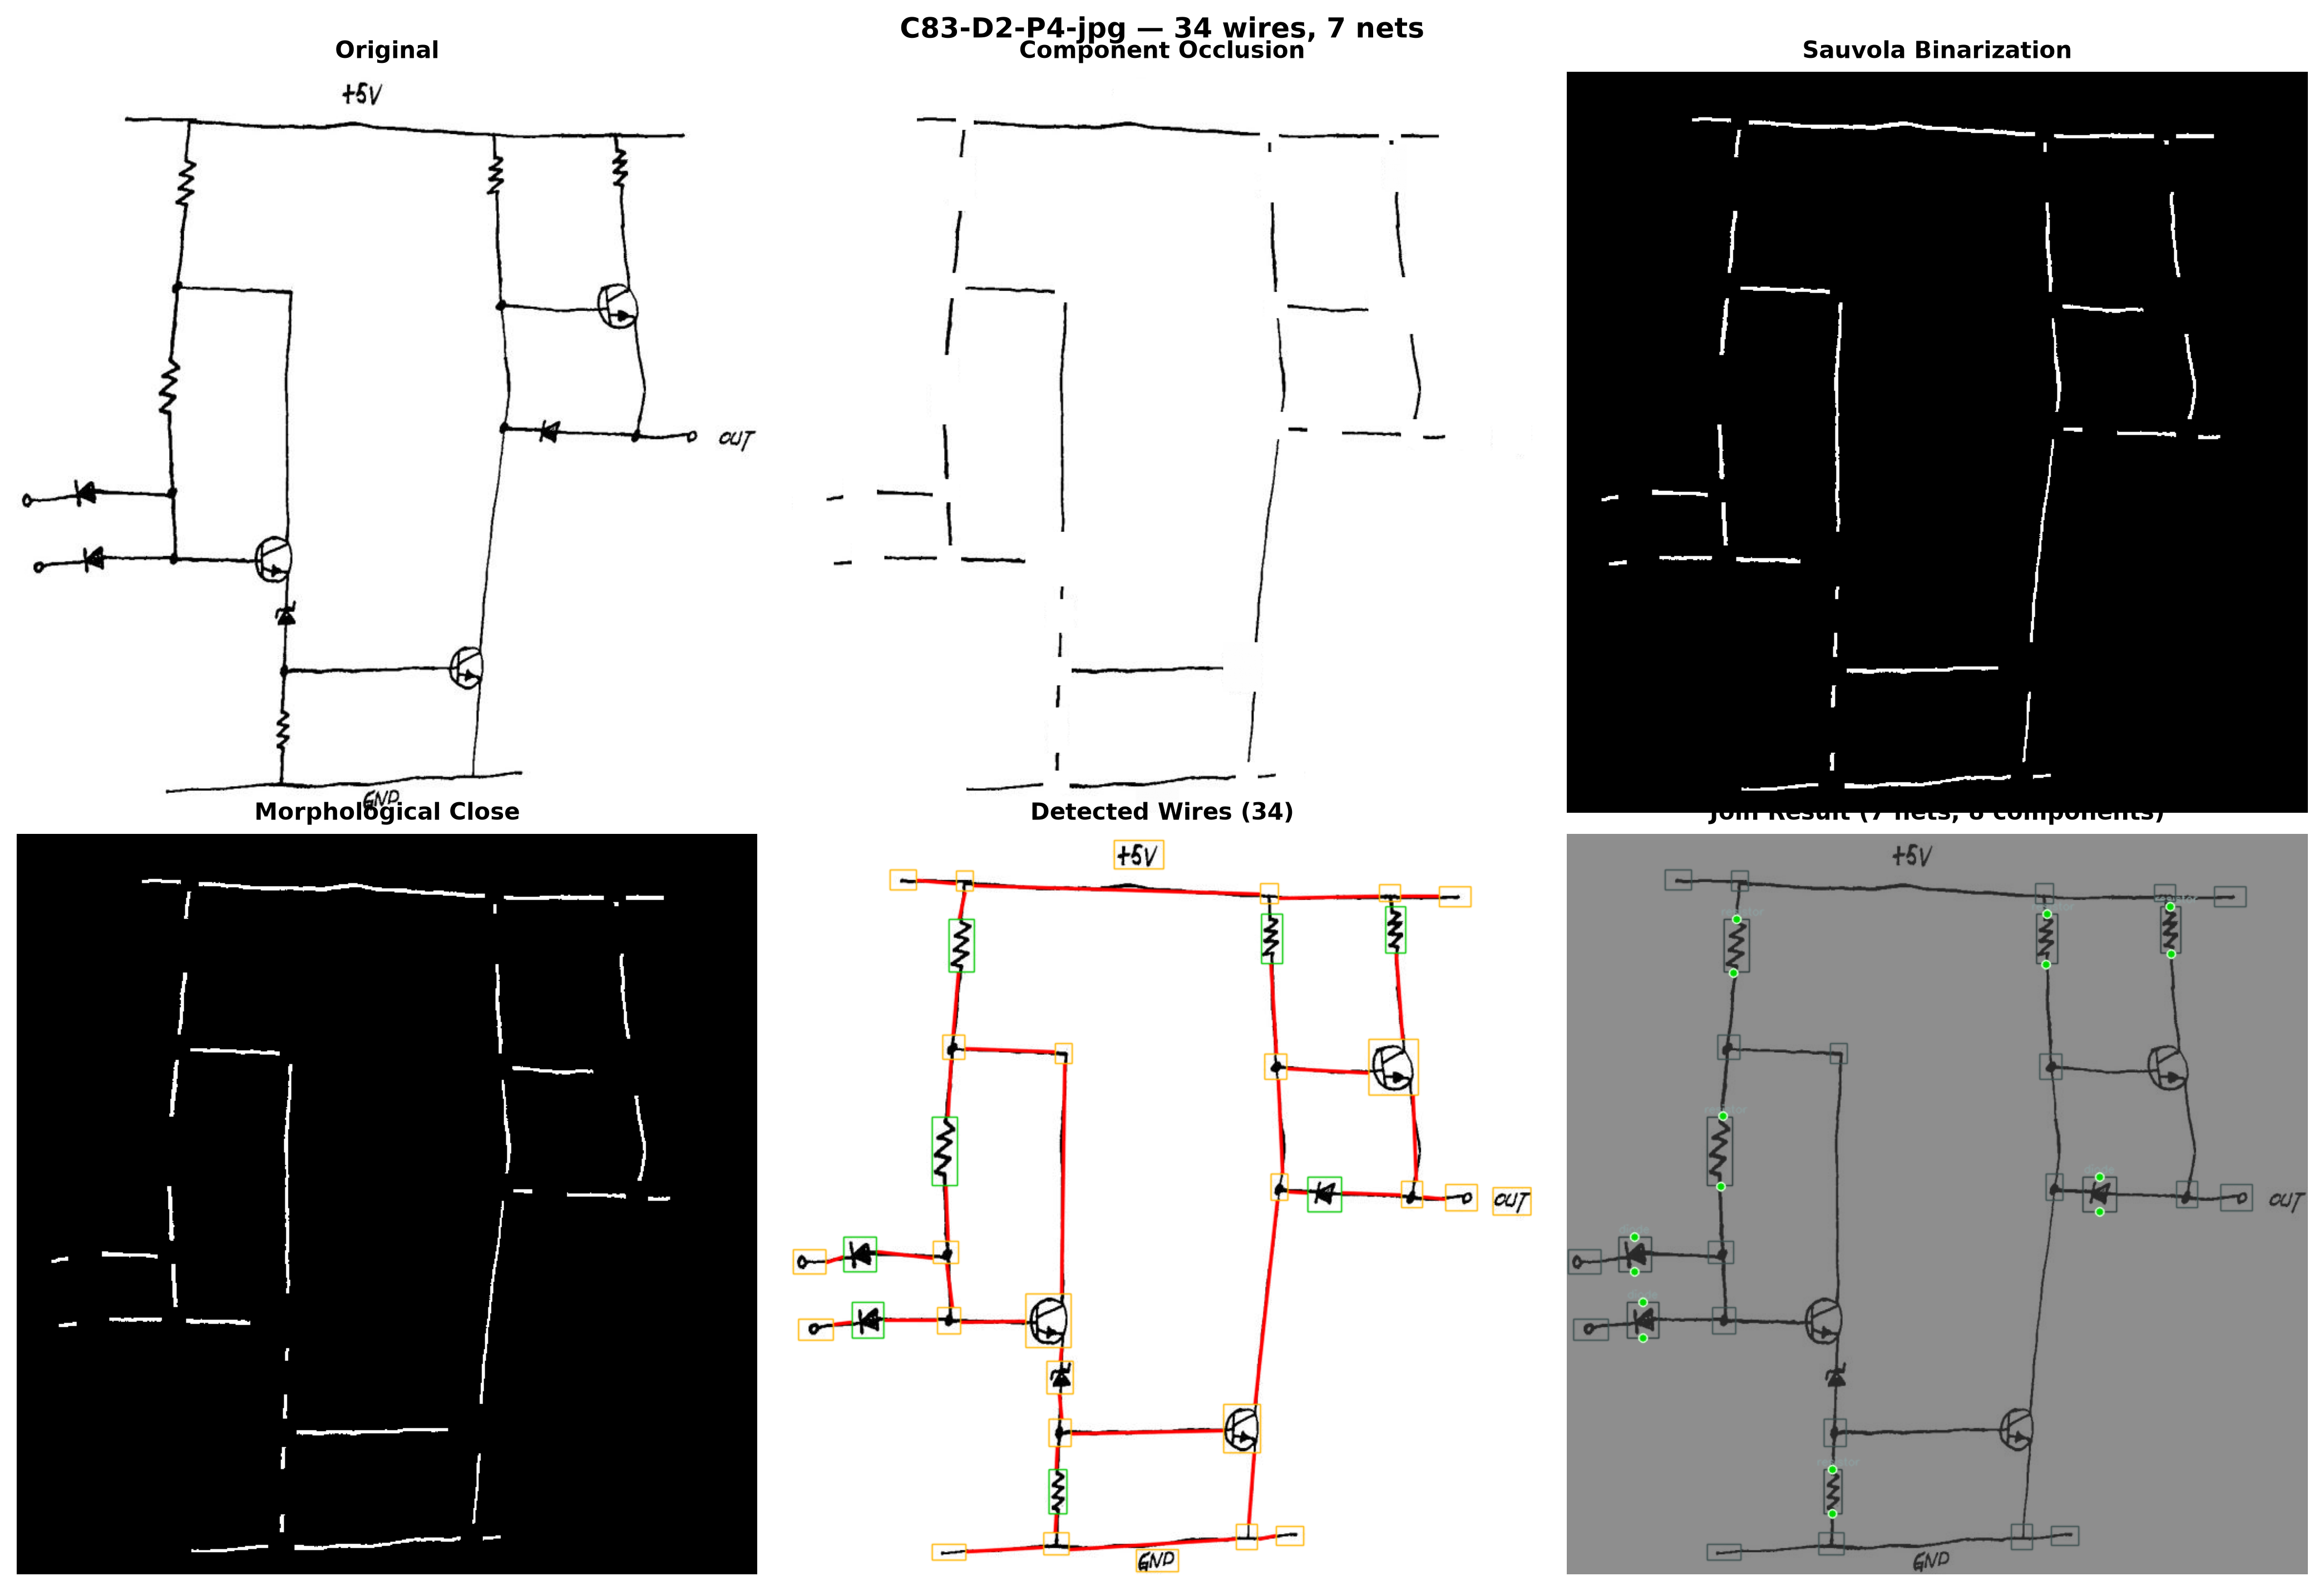
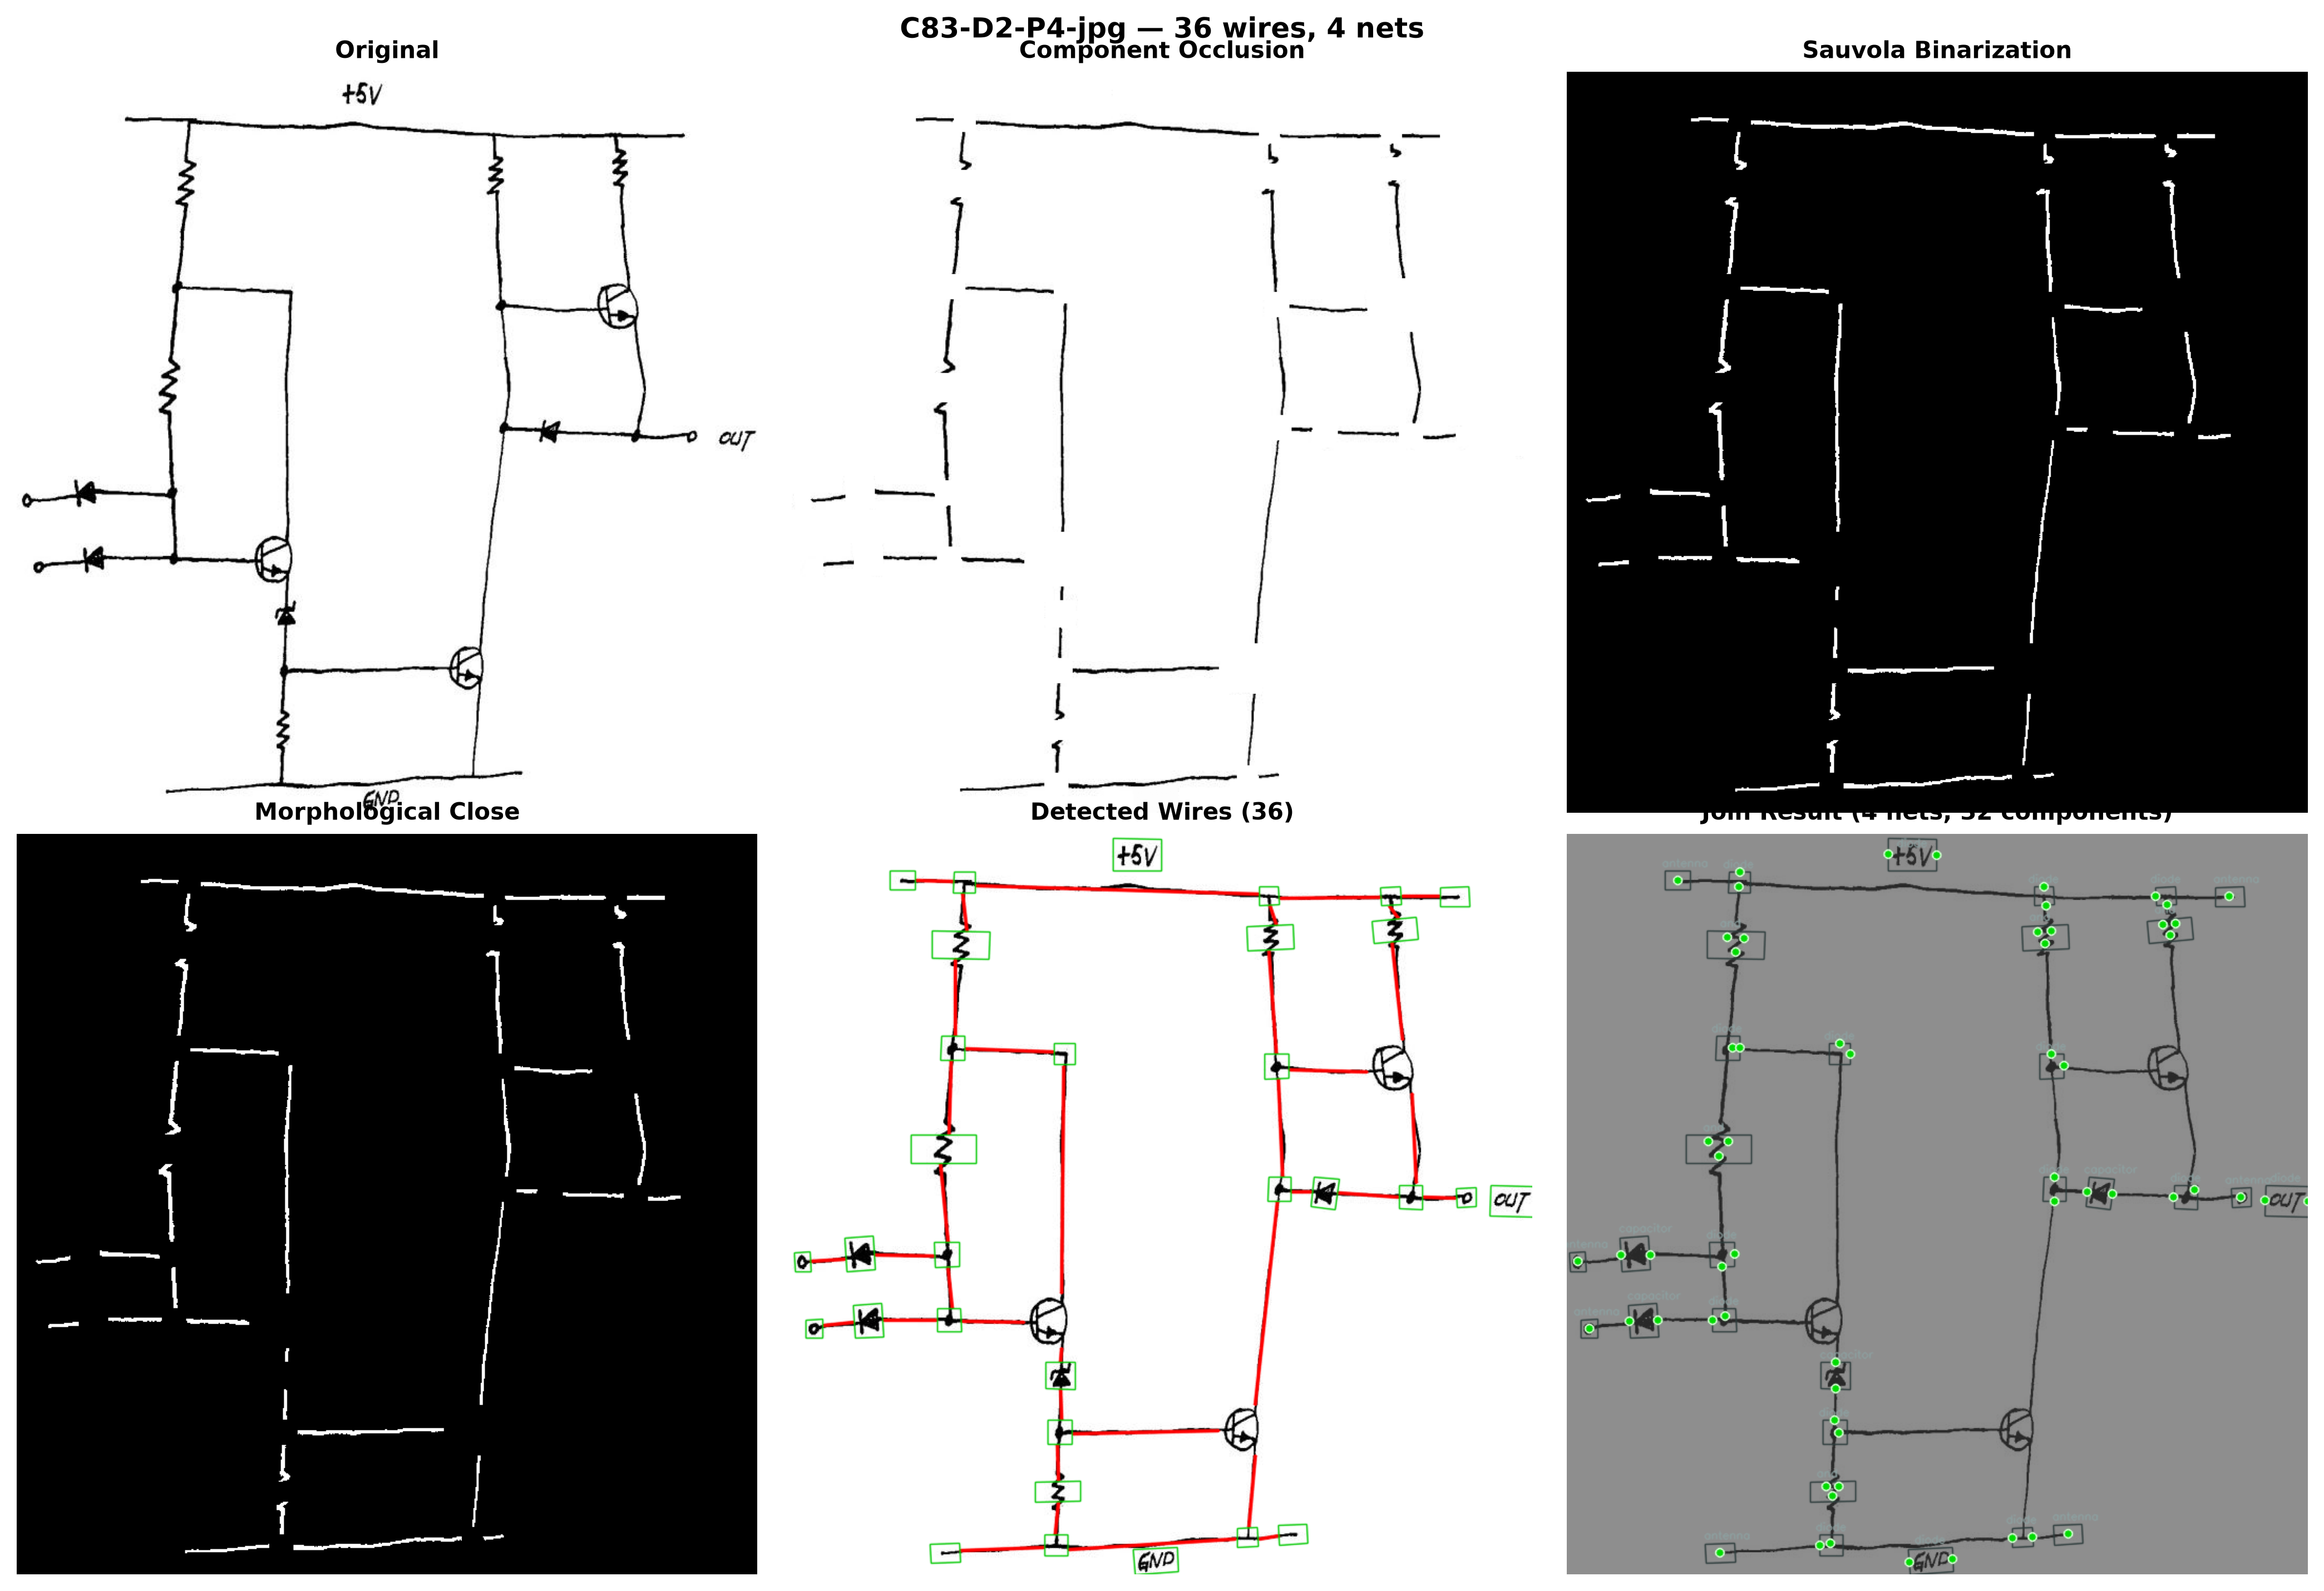
paper(ieee): remove text/junction OBB outlines from pipeline figures
Text and junction components no longer show dots or outlines in the
wire overlay and join panels. Pin dots only appear for real circuit
components (resistors, caps, diodes, transistors, etc.).

diff --git a/paper/ieee-paper/generate_pipeline_examples.py b/paper/ieee-paper/generate_pipeline_examples.py
@@ -1,12 +1,8 @@
 #!/usr/bin/env python3
-"""Generate pipeline example figures for the IEEE paper.
-Produces 2x3 grid composites for C245-D2-P1 and C236-D2-P3.
-"""
+"""Pipeline visualization using trained YOLO model for component detection.
+Shows all real component pins (not just SPICE passives)."""
 import os, sys, cv2, math
 import numpy as np
-import matplotlib
-matplotlib.use('Agg')
-import matplotlib.pyplot as plt
 from pathlib import Path
 
 sys.path.insert(0, '/home/claw/circuit-digitization')
@@ -16,17 +12,13 @@ from wire_detection.benchmark.experiment_harness import (
     ExperimentConfig, build_component_mask, crop_to_roi, shift_components,
     detect_wires_experiment, sauvola_binary,
 )
-from wire_detection.core.join_strategies import run_strategy, make_pins, DEFAULT_STRATEGY
+from wire_detection.core.join_strategies import run_strategy, DEFAULT_STRATEGY
 from wire_detection.core.component_classes import COMPONENT_TYPES
+import matplotlib
+matplotlib.use('Agg')
+import matplotlib.pyplot as plt
 
-RELAY_IDS = {cid for cid, name in COMPONENT_TYPES.items()
-             if name in ("junction", "terminal", "gnd", "crossover")}
-SPICE_CLASSES = {
-    "resistor", "capacitor-unpolarized", "capacitor-polarized",
-    "inductor", "diode", "voltage-AC", "voltage-DC",
-}
-spice_cls_ids = {cid for cid, name in COMPONENT_TYPES.items() if name in SPICE_CLASSES}
-
+# Config
 cfg = ExperimentConfig(
     name="a16", sauvola_k=0.285, sauvola_window=67, close_kernel=3,
     ccl_min_area=28, endpoint_mode="pca", dedup_mode="overlap",
@@ -35,106 +27,53 @@ cfg = ExperimentConfig(
 )
 
 GT_IMAGES = Path("/home/claw/workspace/ground_truth/labels_few_annot/images")
-HDC_BASE = Path("/home/claw/circuit-digitization/roboflow_test2")
-HDC_SPLITS = ["train", "valid", "test"]
 OUTPUT = Path("/home/claw/circuit-digitization/paper/ieee-paper/figures/pipeline_examples")
 OUTPUT.mkdir(parents=True, exist_ok=True)
 
-
-def find_hdc_label_by_prefix(image_name):
-    """Find the Roboflow/HDC label file matching an image name prefix."""
-    for split in HDC_SPLITS:
-        label_dir = HDC_BASE / split / "labels"
-        if not label_dir.exists():
-            continue
-        matches = sorted(label_dir.glob(f"{image_name}_jpg.rf.*.txt"))
-        if matches:
-            return matches[0]
-        # Also try jpeg suffix
-        matches = sorted(label_dir.glob(f"{image_name}_jpeg.rf.*.txt"))
-        if matches:
-            return matches[0]
-    return None
+# Classes that are "relay" / structural — don't show as pins
+SKIP_PIN_TYPES = {
+    "junction", "terminal", "gnd", "crossover", "vss",
+    "text", "unknown", "mechanical", "optical",
+    "probe", "probe-current", "probe-voltage",
+}
+SKIP_PIN_IDS = {cid for cid, name in COMPONENT_TYPES.items() if name in SKIP_PIN_TYPES}
 
 
-def find_exact_match_hdc(image_name, orig_gray):
-    """Find the exact pixel-matching Roboflow image and label."""
-    for suffix in ["_jpg", "_jpeg"]:
-        stem = f"{image_name}{suffix}"
-        best_match = None
-        best_diff = float('inf')
-        for split in HDC_SPLITS:
-            img_dir = HDC_BASE / split / "images"
-            label_dir = HDC_BASE / split / "labels"
-            if not img_dir.exists():
-                continue
-            for f in sorted(img_dir.glob(f"{stem}.rf.*.jpg")):
-                rob = cv2.imread(str(f), cv2.IMREAD_GRAYSCALE)
-                if rob is not None and rob.shape == orig_gray.shape:
-                    diff = np.mean(np.abs(rob.astype(float) - orig_gray.astype(float)))
-                    if diff < best_diff:
-                        best_diff = diff
-                        lbl = label_dir / f.name.replace('.jpg', '.txt')
-                        if lbl.exists():
-                            best_match = (lbl, f, diff)
-        if best_match and best_match[2] < 1.0:
-            return best_match[0], best_match[1]
-    return None, None
-
-
-def load_hdc_labels(label_path, img_wh):
-    """Load YOLO-OBB labels preserving true OBB vertices."""
-    w, h = img_wh
+def load_yolo_components(image_path):
+    """Run trained YOLO model and return components in standard format."""
+    from ultralytics import YOLO
+    model_path = "models/component_detection/yolo26m_obb_16class_aug.pt"
+    model = YOLO(model_path)
+    results = model(str(image_path), task="obb", conf=0.5)
+    
     components = []
-    with open(label_path) as f:
-        for line in f:
-            parts = line.strip().split()
-            if len(parts) < 9:
-                continue
-            cls_id = int(parts[0])
-            coords = [float(x) for x in parts[1:9]]
-            xs = [coords[i] * w for i in range(0, 8, 2)]
-            ys = [coords[i] * h for i in range(1, 8, 2)]
-            pts = [(int(xs[i]), int(ys[i])) for i in range(4)]
-            x1, x2 = min(xs), max(xs)
-            y1, y2 = min(ys), max(ys)
-            components.append((cls_id, pts, (int(x1), int(y1), int(x2), int(y2))))
+    for result in results:
+        if result.obb is None:
+            continue
+        for i in range(len(result.obb.cls)):
+            cls_id = int(result.obb.cls[i])
+            bbox = result.obb.xyxy[i].tolist()
+            x1, y1, x2, y2 = int(bbox[0]), int(bbox[1]), int(bbox[2]), int(bbox[3])
+            polygon = result.obb.xyxyxyxy[i].tolist()
+            polygon_pts = [(int(p[0]), int(p[1])) for p in polygon]
+            components.append((cls_id, polygon_pts, (x1, y1, x2, y2)))
     return components
 
 
 def draw_obb(img, vertices, color, thickness=1):
-    """Draw oriented bounding box using true 4-corner polygon."""
     pts = np.array(vertices, dtype=np.int32).reshape((-1, 1, 2))
     cv2.polylines(img, [pts], True, color, thickness, cv2.LINE_AA)
 
 
 def run_pipeline(img_path):
-    """Run the full pipeline and collect stage images."""
     from PIL import Image
-    name = Path(img_path).stem
     pil_img = Image.open(img_path).convert('L')
     gray = np.array(pil_img)
     stages = {}
     stages['original'] = gray.copy()
 
-    # Strip known suffixes to get the base lookup name
-    lookup_name = name
-    for suffix in ('_jpg', '_jpeg', '_png'):
-        if lookup_name.endswith(suffix):
-            lookup_name = lookup_name[:-len(suffix)]
-            break
-
-    hdc_label = find_hdc_label_by_prefix(lookup_name)
-    exact_label, exact_img_path = find_exact_match_hdc(lookup_name, gray)
-
-    comp_labels = []
-    if exact_label:
-        comp_labels = load_hdc_labels(exact_label, (gray.shape[1], gray.shape[0]))
-        if exact_img_path:
-            gray = cv2.imread(str(exact_img_path), cv2.IMREAD_GRAYSCALE)
-            stages['original'] = gray.copy()
-    elif hdc_label:
-        comp_labels = load_hdc_labels(hdc_label, (gray.shape[1], gray.shape[0]))
+    # Use trained YOLO model for component detection
+    comp_labels = load_yolo_components(img_path)
 
     if comp_labels:
         occluded = build_component_mask(gray, comp_labels, cfg.occlusion_margin)
@@ -163,27 +102,19 @@ def run_pipeline(img_path):
                     for (x1, y1), (x2, y2) in lines_local]
     stages['n_wires'] = len(lines_global)
 
-    # Wire overlay with OBB polygons
+    # Wire overlay
     overlay = cv2.cvtColor(gray, cv2.COLOR_GRAY2BGR)
     for (x1, y1), (x2, y2) in lines_global:
         cv2.line(overlay, (x1, y1), (x2, y2), (0, 0, 255), 2, cv2.LINE_AA)
     for comp in comp_labels:
         cls_id, verts, bbox = comp
-        color = (0, 200, 0) if cls_id in spice_cls_ids else (0, 180, 255)
-        draw_obb(overlay, verts, color, 1)
+        if cls_id not in SKIP_PIN_IDS:
+            draw_obb(overlay, verts, (0, 200, 0), 1)
     stages['wire_overlay'] = overlay.copy()
 
-    # Join result
+    # Join result — no colored net lines, just pin dots
     if comp_labels and lines_global:
-        has_relays = any(c[0] in RELAY_IDS for c in comp_labels)
-        if has_relays:
-            # Fallback: use basic pin-based join for circuits with relays
-            pins = make_pins(lines_global, local_components)
-            # Build a simple netlist from wire connections
-            from wire_detection.core.join_strategies import run_strategy
-            pins, netlist = run_strategy(DEFAULT_STRATEGY, lines_global, local_components)
-        else:
-            pins, netlist = run_strategy(DEFAULT_STRATEGY, lines_global, local_components)
+        pins, netlist = run_strategy(DEFAULT_STRATEGY, lines_global, local_components)
 
         attached_pins = set()
         for node in netlist.nodes:
@@ -193,42 +124,39 @@ def run_pipeline(img_path):
         join_overlay = cv2.cvtColor(gray, cv2.COLOR_GRAY2BGR)
         join_overlay = (join_overlay * 0.4 + 40).astype(np.uint8)
 
-        # Draw OBB polygons for SPICE components
+        # Draw OBB polygons for all components
         for comp in comp_labels:
             cls_id, verts, bbox = comp
-            if cls_id in spice_cls_ids:
+            if cls_id not in SKIP_PIN_IDS:
                 draw_obb(join_overlay, verts, (60, 60, 45), 1)
                 cx = sum(v[0] for v in verts) // 4
                 cy = min(v[1] for v in verts) - 4
                 tname = COMPONENT_TYPES.get(cls_id, "?").split("-")[0]
                 cv2.putText(join_overlay, tname, (cx - 15, max(12, cy)),
                            cv2.FONT_HERSHEY_SIMPLEX, 0.35, (160, 160, 140), 1, cv2.LINE_AA)
-            elif cls_id in RELAY_IDS:
-                draw_obb(join_overlay, verts, (80, 80, 60), 1)
 
-        nets = [n for n in netlist.nodes if n.wires]
+        # Draw pin dots for ALL components (not just SPICE passives)
         for pin in pins:
             px = int(pin.x) + ox
             py = int(pin.y) + oy
-            is_attached = (pin.component_idx, pin.pin_idx) in attached_pins
             comp_cls = local_components[pin.component_idx][0]
-
-            if comp_cls not in spice_cls_ids:
+            if comp_cls in SKIP_PIN_IDS:
                 continue
 
+            is_attached = (pin.component_idx, pin.pin_idx) in attached_pins
             dot_color = (0, 220, 0) if is_attached else (0, 0, 255)
             cv2.circle(join_overlay, (px, py), 4, dot_color, -1, cv2.LINE_AA)
             cv2.circle(join_overlay, (px, py), 4, (255, 255, 255), 1, cv2.LINE_AA)
 
         stages['join_overlay'] = join_overlay.copy()
+        nets = [n for n in netlist.nodes if n.wires]
         stages['n_nets'] = len(nets)
-        stages['n_comps'] = sum(1 for c in comp_labels if c[0] in spice_cls_ids)
+        stages['n_comps'] = sum(1 for c in comp_labels if c[0] not in SKIP_PIN_IDS)
 
     return stages
 
 
 def save_composite(stages, name, output_path):
-    """Save 2×3 grid at high resolution (300 dpi)."""
     fig, axes = plt.subplots(2, 3, figsize=(14, 9.5), dpi=300)
     title_map = [
         ('original', 'Original'),